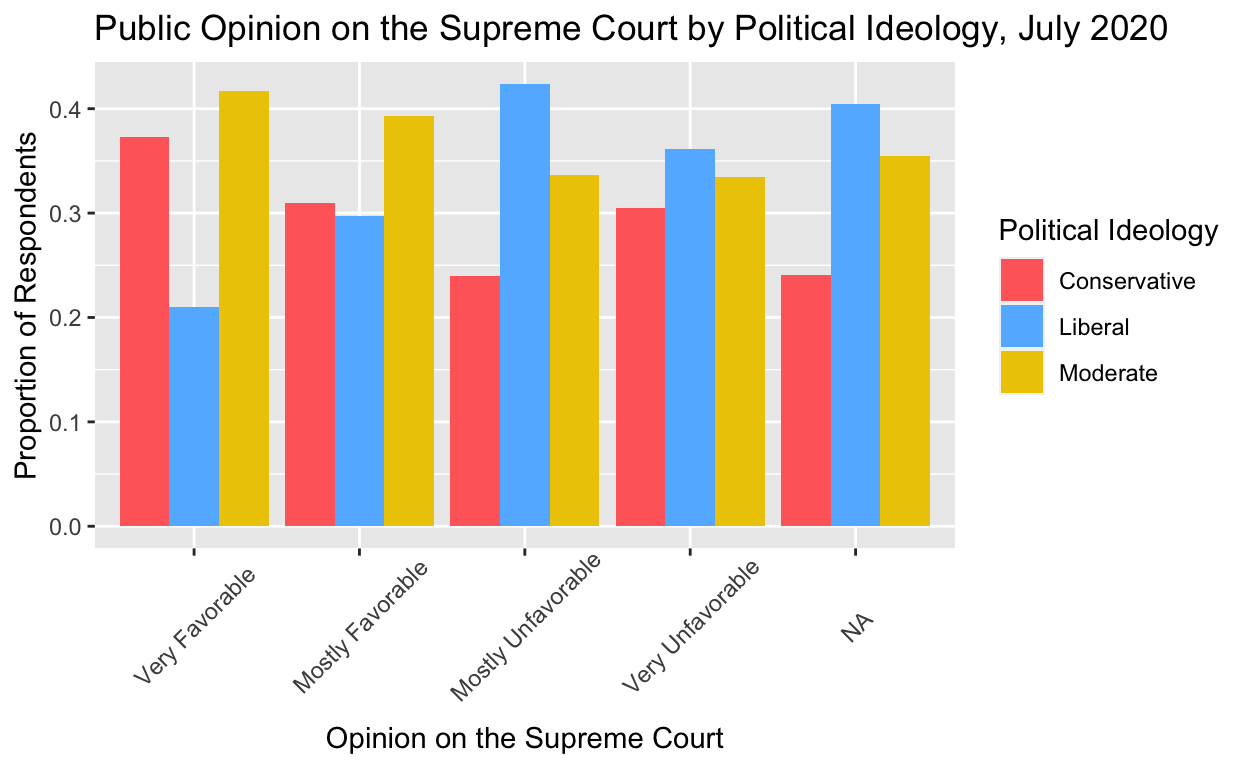
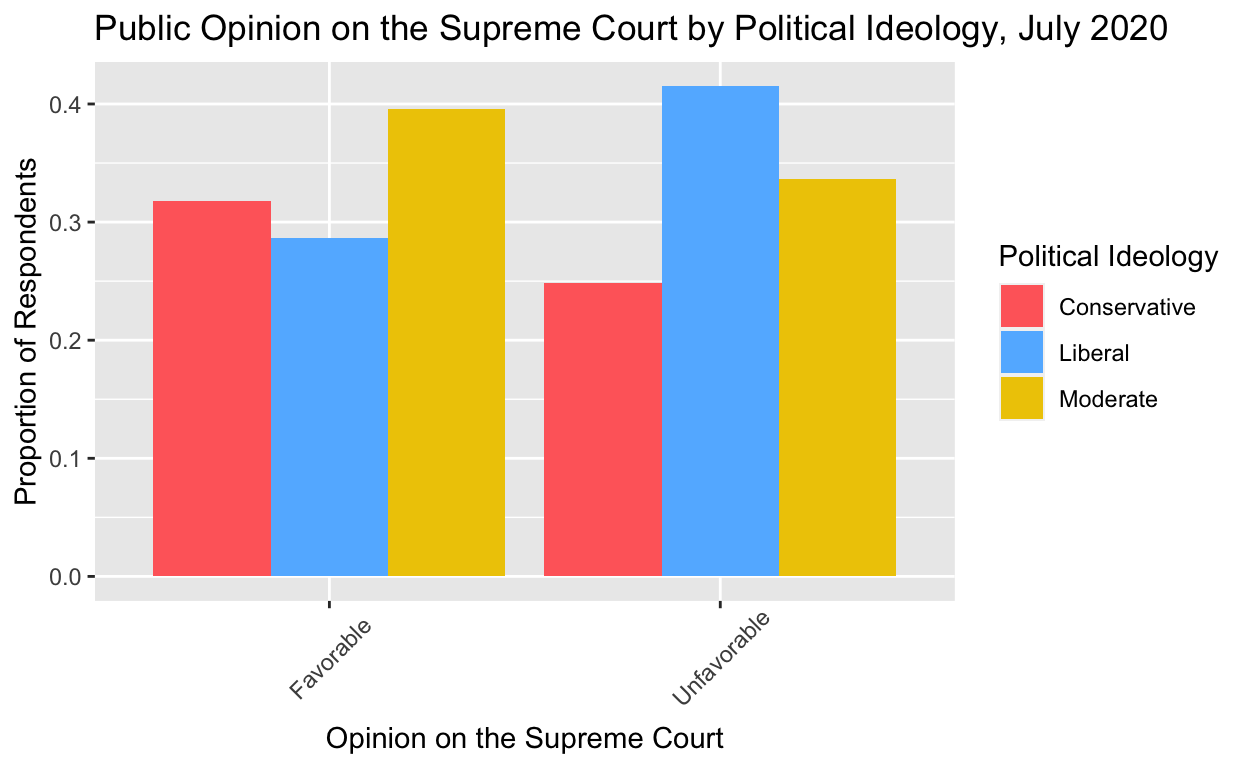
updated data visualizations

diff --git a/index.html b/index.html
@@ -115,7 +115,7 @@ code span.wa { color: #5e5e5e; font-style: italic; } /* Warning */
   <!--/radix_placeholder_rmarkdown_metadata-->
   
   <script type="text/json" id="radix-resource-manifest">
-  {"type":"character","attributes":{},"value":["index_files/anchor-4.2.2/anchor.min.js","index_files/bowser-1.9.3/bowser.min.js","index_files/distill-2.2.21/template.v2.js","index_files/figure-html5/unnamed-chunk-2-1.png","index_files/figure-html5/unnamed-chunk-3-1.png","index_files/figure-html5/unnamed-chunk-4-1.png","index_files/figure-html5/unnamed-chunk-5-1.png","index_files/figure-html5/unnamed-chunk-6-1.png","index_files/header-attrs-2.17/header-attrs.js","index_files/header-attrs-2.24/header-attrs.js","index_files/jquery-3.6.0/jquery-3.6.0.js","index_files/jquery-3.6.0/jquery-3.6.0.min.js","index_files/jquery-3.6.0/jquery-3.6.0.min.map","index_files/popper-2.6.0/popper.min.js","index_files/tippy-6.2.7/tippy-bundle.umd.min.js","index_files/tippy-6.2.7/tippy-light-border.css","index_files/tippy-6.2.7/tippy.css","index_files/tippy-6.2.7/tippy.umd.min.js","index_files/webcomponents-2.0.0/webcomponents.js","W101_Jan22/ATP W101.sav","W101_Jan22/Codebook.pdf","W101_Jan22/W101 Methodology.pdf","W101_Jan22/W101 Questionnaire.pdf","W101_Jan22/W101 Readme.txt","W101_Jan22/W101 Topline copy.pdf","W101_Jan22/W101 Topline.pdf","W52_Jul19/ATP W52 methodology.pdf","W52_Jul19/ATP W52 questionnaire.pdf","W52_Jul19/ATP W52 readme.txt","W52_Jul19/ATP W52 topline.pdf","W52_Jul19/ATP W52.sav","W59_Jan20/ATP W59 methodology.pdf","W59_Jan20/ATP W59 questionnaire.pdf","W59_Jan20/ATP W59 readme.txt","W59_Jan20/ATP W59 topline.pdf","W59_Jan20/ATP W59.sav","W71_Jul20/ATP W71 methodology.pdf","W71_Jul20/ATP W71 questionnaire.pdf","W71_Jul20/ATP W71 readme.txt","W71_Jul20/ATP W71 topline.pdf","W71_Jul20/ATP W71.sav","W87_Apr21/ATP W87 methodology.pdf","W87_Apr21/ATP W87 questionnaire.pdf","W87_Apr21/ATP W87 readme.txt","W87_Apr21/ATP W87 topline.pdf","W87_Apr21/ATP W87.sav"]}
+  {"type":"character","attributes":{},"value":["index_files/anchor-4.2.2/anchor.min.js","index_files/bowser-1.9.3/bowser.min.js","index_files/distill-2.2.21/template.v2.js","index_files/figure-html5/unnamed-chunk-2-1.png","index_files/figure-html5/unnamed-chunk-3-1.png","index_files/figure-html5/unnamed-chunk-4-1.png","index_files/figure-html5/unnamed-chunk-5-1.png","index_files/figure-html5/unnamed-chunk-6-1.png","index_files/figure-html5/unnamed-chunk-7-1.png","index_files/figure-html5/unnamed-chunk-8-1.png","index_files/header-attrs-2.17/header-attrs.js","index_files/header-attrs-2.24/header-attrs.js","index_files/jquery-3.6.0/jquery-3.6.0.js","index_files/jquery-3.6.0/jquery-3.6.0.min.js","index_files/jquery-3.6.0/jquery-3.6.0.min.map","index_files/popper-2.6.0/popper.min.js","index_files/tippy-6.2.7/tippy-bundle.umd.min.js","index_files/tippy-6.2.7/tippy-light-border.css","index_files/tippy-6.2.7/tippy.css","index_files/tippy-6.2.7/tippy.umd.min.js","index_files/webcomponents-2.0.0/webcomponents.js","W101_Jan22/ATP W101.sav","W101_Jan22/Codebook.pdf","W101_Jan22/W101 Methodology.pdf","W101_Jan22/W101 Questionnaire.pdf","W101_Jan22/W101 Readme.txt","W101_Jan22/W101 Topline copy.pdf","W101_Jan22/W101 Topline.pdf","W52_Jul19/ATP W52 methodology.pdf","W52_Jul19/ATP W52 questionnaire.pdf","W52_Jul19/ATP W52 readme.txt","W52_Jul19/ATP W52 topline.pdf","W52_Jul19/ATP W52.sav","W59_Jan20/ATP W59 methodology.pdf","W59_Jan20/ATP W59 questionnaire.pdf","W59_Jan20/ATP W59 readme.txt","W59_Jan20/ATP W59 topline.pdf","W59_Jan20/ATP W59.sav","W71_Jul20/ATP W71 methodology.pdf","W71_Jul20/ATP W71 questionnaire.pdf","W71_Jul20/ATP W71 readme.txt","W71_Jul20/ATP W71 topline.pdf","W71_Jul20/ATP W71.sav","W87_Apr21/ATP W87 methodology.pdf","W87_Apr21/ATP W87 questionnaire.pdf","W87_Apr21/ATP W87 readme.txt","W87_Apr21/ATP W87 topline.pdf","W87_Apr21/ATP W87.sav"]}
   </script>
   <!--radix_placeholder_navigation_in_header-->
   <!--/radix_placeholder_navigation_in_header-->
@@ -1518,7 +1518,7 @@ code span.wa { color: #5e5e5e; font-style: italic; } /* Warning */
 
 <div class="d-article">
 <p>Over the past decade, how has political ideology affected changes in public approval of the Supreme Court? In my final project, I plan to examine the relationship between political partisanship and public opinion of the Supreme Court. I hypothesize that individuals who identify as liberal (Democrats) are more likely to disapprove of the Court than those that identify as conservative (Republican). Overall, I expect that public approval of the Court has decreased across both parties over the past 10 years. For context, the Supreme Court is now more conservative than it has ever been in the past 90 years: with the appointment and confirmation of three conservative justices, former President Donald Trump filled more seats in a single term than any president since Franklin Delano Roosevelt. As such, a majority of Americans currently feel a disconnect from the Court as recent controversial decisions on topics such as abortion, environmental regulations, and affirmative action appear to run contrary to popular opinion. I’m planning to work with survey data from Pew Research Center’s American Trends Panel Waves 52 (July 2019), 59 (January 2020), 71 (July 2020), 87 (April 21), and 101 (January 2022). The data set has a tracking question (“Do you have a favorable or unfavorable opinion of each of the following?”) that asks respondents for their approval of the various governmental institutions, of which includes the Supreme Court—the project will focus on responses from the last five waves that asked this question (2019-2022). My explanatory variable of interest is the political ideology of the respondents: the variable can be coded =1 for liberal and =0 for conservative. My outcome variable is changes in the favorability of respondents’ opinion towards the Supreme Court (based on political ideology), which I can measure by calculating percent change or measuring linear regression. If I observe a larger percent change in unfavorable approval ratings for the Supreme Court among liberals than conservatives over 10 years, this would support my hypothesis. On the other hand, If I observe a larger percent change in unfavorable approval ratings for the Supreme Court among conservatives than liberals over 10 years, this would provide evidence against my hypothesis.</p>
-<p>For each of the data sets, I first created a data visualization of approval ratings of the Supreme Court by political ideology (using proportions).</p>
+<p>For each of the data sets, I first created a data visualization of approval ratings of the Supreme Court by political ideology (using proportions). Then, I created data visualizations to show the changes in favorable and unfavorable opinions on the Supreme Court over time.</p>
 <div class="layout-chunk" data-layout="l-body">
 <div class="sourceCode">
 <pre class="sourceCode r"><code class="sourceCode r"><span><span class='kw'><a href='https://rdrr.io/r/base/library.html'>library</a></span><span class='op'>(</span><span class='va'><a href='https://haven.tidyverse.org'>haven</a></span><span class='op'>)</span></span>
@@ -1532,16 +1532,15 @@ code span.wa { color: #5e5e5e; font-style: italic; } /* Warning */
 <pre class="sourceCode r"><code class="sourceCode r"><span><span class='va'>july19</span> <span class='op'>&lt;-</span> <span class='fu'><a href='https://haven.tidyverse.org/reference/read_spss.html'>read_sav</a></span><span class='op'>(</span><span class='st'>"W52_Jul19/ATP W52.sav"</span><span class='op'>)</span></span>
 <span></span>
 <span><span class='va'>july19</span> <span class='op'>&lt;-</span> <span class='va'>july19</span> <span class='op'>|&gt;</span></span>
-<span>  <span class='fu'><a href='https://dplyr.tidyverse.org/reference/mutate.html'>mutate</a></span><span class='op'>(</span>scotus_opinion <span class='op'>=</span> <span class='fu'><a href='https://dplyr.tidyverse.org/reference/case_when.html'>case_when</a></span><span class='op'>(</span><span class='va'>INSTFAVd_W52</span> <span class='op'>==</span> <span class='fl'>1</span> <span class='op'>~</span> <span class='st'>"Very Favorable"</span>, </span>
-<span>                                    <span class='va'>INSTFAVd_W52</span> <span class='op'>==</span> <span class='fl'>2</span> <span class='op'>~</span> <span class='st'>"Mostly Favorable"</span>, </span>
-<span>                                    <span class='va'>INSTFAVd_W52</span> <span class='op'>==</span> <span class='fl'>3</span> <span class='op'>~</span> <span class='st'>"Mostly Unfavorable"</span>,</span>
-<span>                                    <span class='va'>INSTFAVd_W52</span> <span class='op'>==</span> <span class='fl'>4</span> <span class='op'>~</span> <span class='st'>"Very Unfavorable"</span><span class='op'>)</span>,</span>
+<span>  <span class='fu'><a href='https://dplyr.tidyverse.org/reference/mutate.html'>mutate</a></span><span class='op'>(</span>scotus_opinion <span class='op'>=</span> <span class='fu'><a href='https://dplyr.tidyverse.org/reference/case_when.html'>case_when</a></span><span class='op'>(</span><span class='va'>INSTFAVd_W52</span> <span class='op'>&lt;=</span> <span class='fl'>2</span> <span class='op'>~</span> <span class='st'>"Favorable"</span>,</span>
+<span>                                    <span class='va'>INSTFAVd_W52</span> <span class='op'>&gt;=</span> <span class='fl'>3</span> <span class='op'>~</span> <span class='st'>"Unfavorable"</span><span class='op'>)</span>,</span>
 <span>         political_ideology <span class='op'>=</span> <span class='fu'><a href='https://dplyr.tidyverse.org/reference/case_when.html'>case_when</a></span><span class='op'>(</span><span class='va'>F_IDEO</span> <span class='op'>&lt;=</span> <span class='fl'>2</span> <span class='op'>~</span> <span class='st'>"Conservative"</span>, </span>
 <span>                                        <span class='va'>F_IDEO</span> <span class='op'>==</span> <span class='fl'>3</span> <span class='op'>~</span> <span class='st'>"Moderate"</span>, </span>
 <span>                                        <span class='va'>F_IDEO</span> <span class='op'>&gt;=</span> <span class='fl'>4</span> <span class='op'>~</span> <span class='st'>"Liberal"</span>, </span>
-<span>                                        <span class='va'>F_IDEO</span> <span class='op'>==</span> <span class='fl'>99</span> <span class='op'>~</span> <span class='st'>"Not Disclosed"</span><span class='op'>)</span><span class='op'>)</span></span>
+<span>                                        <span class='va'>F_IDEO</span> <span class='op'>==</span> <span class='fl'>99</span> <span class='op'>~</span> <span class='st'>"Not Disclosed"</span><span class='op'>)</span><span class='op'>)</span> <span class='op'>|&gt;</span></span>
+<span>  <span class='fu'><a href='https://dplyr.tidyverse.org/reference/filter.html'>filter</a></span><span class='op'>(</span><span class='op'>!</span><span class='fu'><a href='https://rdrr.io/r/base/NA.html'>is.na</a></span><span class='op'>(</span><span class='va'>scotus_opinion</span><span class='op'>)</span><span class='op'>)</span></span>
 <span></span>
-<span><span class='va'>july19</span><span class='op'>$</span><span class='va'>scotus_opinion</span> <span class='op'>&lt;-</span> <span class='fu'><a href='https://rdrr.io/r/base/factor.html'>factor</a></span><span class='op'>(</span><span class='va'>july19</span><span class='op'>$</span><span class='va'>scotus_opinion</span>, levels<span class='op'>=</span><span class='fu'><a href='https://rdrr.io/r/base/c.html'>c</a></span><span class='op'>(</span><span class='st'>"Very Favorable"</span>, <span class='st'>"Mostly Favorable"</span>, <span class='st'>"Mostly Unfavorable"</span>, <span class='st'>"Very Unfavorable"</span><span class='op'>)</span><span class='op'>)</span></span>
+<span><span class='va'>july19</span><span class='op'>$</span><span class='va'>scotus_opinion</span> <span class='op'>&lt;-</span> <span class='fu'><a href='https://rdrr.io/r/base/factor.html'>factor</a></span><span class='op'>(</span><span class='va'>july19</span><span class='op'>$</span><span class='va'>scotus_opinion</span>, levels<span class='op'>=</span><span class='fu'><a href='https://rdrr.io/r/base/c.html'>c</a></span><span class='op'>(</span><span class='st'>"Favorable"</span>, <span class='st'>"Unfavorable"</span><span class='op'>)</span><span class='op'>)</span></span>
 <span></span>
 <span><span class='va'>july19_prop</span> <span class='op'>&lt;-</span> <span class='va'>july19</span> <span class='op'>|&gt;</span></span>
 <span>  <span class='fu'><a href='https://dplyr.tidyverse.org/reference/group_by.html'>group_by</a></span><span class='op'>(</span><span class='va'>scotus_opinion</span>, <span class='va'>political_ideology</span><span class='op'>)</span> <span class='op'>|&gt;</span></span>
@@ -1567,16 +1566,15 @@ code span.wa { color: #5e5e5e; font-style: italic; } /* Warning */
 <pre class="sourceCode r"><code class="sourceCode r"><span><span class='va'>jan20</span> <span class='op'>&lt;-</span> <span class='fu'><a href='https://haven.tidyverse.org/reference/read_spss.html'>read_sav</a></span><span class='op'>(</span><span class='st'>"W59_Jan20/ATP W59.sav"</span><span class='op'>)</span></span>
 <span></span>
 <span><span class='va'>jan20</span> <span class='op'>&lt;-</span> <span class='va'>jan20</span> <span class='op'>|&gt;</span></span>
-<span>  <span class='fu'><a href='https://dplyr.tidyverse.org/reference/mutate.html'>mutate</a></span><span class='op'>(</span>scotus_opinion <span class='op'>=</span> <span class='fu'><a href='https://dplyr.tidyverse.org/reference/case_when.html'>case_when</a></span><span class='op'>(</span><span class='va'>INSTFAV_d_W59</span> <span class='op'>==</span> <span class='fl'>1</span> <span class='op'>~</span> <span class='st'>"Very Favorable"</span>, </span>
-<span>                                    <span class='va'>INSTFAV_d_W59</span> <span class='op'>==</span> <span class='fl'>2</span> <span class='op'>~</span> <span class='st'>"Mostly Favorable"</span>, </span>
-<span>                                    <span class='va'>INSTFAV_d_W59</span> <span class='op'>==</span> <span class='fl'>3</span> <span class='op'>~</span> <span class='st'>"Mostly Unfavorable"</span>,</span>
-<span>                                    <span class='va'>INSTFAV_d_W59</span> <span class='op'>==</span> <span class='fl'>4</span> <span class='op'>~</span> <span class='st'>"Very Unfavorable"</span><span class='op'>)</span>,</span>
+<span>  <span class='fu'><a href='https://dplyr.tidyverse.org/reference/mutate.html'>mutate</a></span><span class='op'>(</span>scotus_opinion <span class='op'>=</span> <span class='fu'><a href='https://dplyr.tidyverse.org/reference/case_when.html'>case_when</a></span><span class='op'>(</span><span class='va'>INSTFAV_d_W59</span> <span class='op'>&lt;=</span> <span class='fl'>2</span> <span class='op'>~</span> <span class='st'>"Favorable"</span>, </span>
+<span>                                    <span class='va'>INSTFAV_d_W59</span>  <span class='op'>&gt;=</span> <span class='fl'>3</span> <span class='op'>~</span> <span class='st'>"Unfavorable"</span><span class='op'>)</span>,</span>
 <span>         political_ideology <span class='op'>=</span> <span class='fu'><a href='https://dplyr.tidyverse.org/reference/case_when.html'>case_when</a></span><span class='op'>(</span><span class='va'>F_IDEO</span> <span class='op'>&lt;=</span> <span class='fl'>2</span> <span class='op'>~</span> <span class='st'>"Conservative"</span>, </span>
 <span>                                        <span class='va'>F_IDEO</span> <span class='op'>==</span> <span class='fl'>3</span> <span class='op'>~</span> <span class='st'>"Moderate"</span>, </span>
 <span>                                        <span class='va'>F_IDEO</span> <span class='op'>&gt;=</span> <span class='fl'>4</span> <span class='op'>~</span> <span class='st'>"Liberal"</span>, </span>
-<span>                                        <span class='va'>F_IDEO</span> <span class='op'>==</span> <span class='fl'>99</span> <span class='op'>~</span> <span class='st'>"Not Disclosed"</span><span class='op'>)</span><span class='op'>)</span></span>
+<span>                                        <span class='va'>F_IDEO</span> <span class='op'>==</span> <span class='fl'>99</span> <span class='op'>~</span> <span class='st'>"Not Disclosed"</span><span class='op'>)</span><span class='op'>)</span> <span class='op'>|&gt;</span></span>
+<span>  <span class='fu'><a href='https://dplyr.tidyverse.org/reference/filter.html'>filter</a></span><span class='op'>(</span><span class='op'>!</span><span class='fu'><a href='https://rdrr.io/r/base/NA.html'>is.na</a></span><span class='op'>(</span><span class='va'>scotus_opinion</span><span class='op'>)</span><span class='op'>)</span></span>
 <span></span>
-<span><span class='va'>jan20</span><span class='op'>$</span><span class='va'>scotus_opinion</span> <span class='op'>&lt;-</span> <span class='fu'><a href='https://rdrr.io/r/base/factor.html'>factor</a></span><span class='op'>(</span><span class='va'>jan20</span><span class='op'>$</span><span class='va'>scotus_opinion</span>, levels<span class='op'>=</span><span class='fu'><a href='https://rdrr.io/r/base/c.html'>c</a></span><span class='op'>(</span><span class='st'>"Very Favorable"</span>, <span class='st'>"Mostly Favorable"</span>, <span class='st'>"Mostly Unfavorable"</span>, <span class='st'>"Very Unfavorable"</span><span class='op'>)</span><span class='op'>)</span></span>
+<span><span class='va'>jan20</span><span class='op'>$</span><span class='va'>scotus_opinion</span> <span class='op'>&lt;-</span> <span class='fu'><a href='https://rdrr.io/r/base/factor.html'>factor</a></span><span class='op'>(</span><span class='va'>jan20</span><span class='op'>$</span><span class='va'>scotus_opinion</span>, levels<span class='op'>=</span><span class='fu'><a href='https://rdrr.io/r/base/c.html'>c</a></span><span class='op'>(</span><span class='st'>"Favorable"</span>, <span class='st'>"Unfavorable"</span><span class='op'>)</span><span class='op'>)</span></span>
 <span></span>
 <span><span class='va'>jan20_prop</span> <span class='op'>&lt;-</span> <span class='va'>jan20</span> <span class='op'>|&gt;</span></span>
 <span>  <span class='fu'><a href='https://dplyr.tidyverse.org/reference/group_by.html'>group_by</a></span><span class='op'>(</span><span class='va'>scotus_opinion</span>, <span class='va'>political_ideology</span><span class='op'>)</span> <span class='op'>|&gt;</span></span>
@@ -1602,16 +1600,15 @@ code span.wa { color: #5e5e5e; font-style: italic; } /* Warning */
 <pre class="sourceCode r"><code class="sourceCode r"><span><span class='va'>july20</span> <span class='op'>&lt;-</span> <span class='fu'><a href='https://haven.tidyverse.org/reference/read_spss.html'>read_sav</a></span><span class='op'>(</span><span class='st'>"W71_Jul20/ATP W71.sav"</span><span class='op'>)</span></span>
 <span></span>
 <span><span class='va'>july20</span> <span class='op'>&lt;-</span> <span class='va'>july20</span> <span class='op'>|&gt;</span></span>
-<span>  <span class='fu'><a href='https://dplyr.tidyverse.org/reference/mutate.html'>mutate</a></span><span class='op'>(</span>scotus_opinion <span class='op'>=</span> <span class='fu'><a href='https://dplyr.tidyverse.org/reference/case_when.html'>case_when</a></span><span class='op'>(</span><span class='va'>INSTFAV_d_W71</span> <span class='op'>==</span> <span class='fl'>1</span> <span class='op'>~</span> <span class='st'>"Very Favorable"</span>, </span>
-<span>                                    <span class='va'>INSTFAV_d_W71</span> <span class='op'>==</span> <span class='fl'>2</span> <span class='op'>~</span> <span class='st'>"Mostly Favorable"</span>, </span>
-<span>                                    <span class='va'>INSTFAV_d_W71</span> <span class='op'>==</span> <span class='fl'>3</span> <span class='op'>~</span> <span class='st'>"Mostly Unfavorable"</span>,</span>
-<span>                                    <span class='va'>INSTFAV_d_W71</span> <span class='op'>==</span> <span class='fl'>4</span> <span class='op'>~</span> <span class='st'>"Very Unfavorable"</span><span class='op'>)</span>,</span>
+<span>  <span class='fu'><a href='https://dplyr.tidyverse.org/reference/mutate.html'>mutate</a></span><span class='op'>(</span>scotus_opinion <span class='op'>=</span> <span class='fu'><a href='https://dplyr.tidyverse.org/reference/case_when.html'>case_when</a></span><span class='op'>(</span><span class='va'>INSTFAV_d_W71</span> <span class='op'>&lt;=</span> <span class='fl'>2</span> <span class='op'>~</span> <span class='st'>"Favorable"</span>, </span>
+<span>                                    <span class='va'>INSTFAV_d_W71</span>  <span class='op'>&gt;=</span> <span class='fl'>3</span> <span class='op'>~</span> <span class='st'>"Unfavorable"</span><span class='op'>)</span>,</span>
 <span>         political_ideology <span class='op'>=</span> <span class='fu'><a href='https://dplyr.tidyverse.org/reference/case_when.html'>case_when</a></span><span class='op'>(</span><span class='va'>F_IDEO</span> <span class='op'>&lt;=</span> <span class='fl'>2</span> <span class='op'>~</span> <span class='st'>"Conservative"</span>, </span>
 <span>                                        <span class='va'>F_IDEO</span> <span class='op'>==</span> <span class='fl'>3</span> <span class='op'>~</span> <span class='st'>"Moderate"</span>, </span>
 <span>                                        <span class='va'>F_IDEO</span> <span class='op'>&gt;=</span> <span class='fl'>4</span> <span class='op'>~</span> <span class='st'>"Liberal"</span>, </span>
-<span>                                        <span class='va'>F_IDEO</span> <span class='op'>==</span> <span class='fl'>99</span> <span class='op'>~</span> <span class='st'>"Not Disclosed"</span><span class='op'>)</span><span class='op'>)</span></span>
+<span>                                        <span class='va'>F_IDEO</span> <span class='op'>==</span> <span class='fl'>99</span> <span class='op'>~</span> <span class='st'>"Not Disclosed"</span><span class='op'>)</span><span class='op'>)</span> <span class='op'>|&gt;</span></span>
+<span>  <span class='fu'><a href='https://dplyr.tidyverse.org/reference/filter.html'>filter</a></span><span class='op'>(</span><span class='op'>!</span><span class='fu'><a href='https://rdrr.io/r/base/NA.html'>is.na</a></span><span class='op'>(</span><span class='va'>scotus_opinion</span><span class='op'>)</span><span class='op'>)</span></span>
 <span></span>
-<span><span class='va'>july20</span><span class='op'>$</span><span class='va'>scotus_opinion</span> <span class='op'>&lt;-</span> <span class='fu'><a href='https://rdrr.io/r/base/factor.html'>factor</a></span><span class='op'>(</span><span class='va'>july20</span><span class='op'>$</span><span class='va'>scotus_opinion</span>, levels<span class='op'>=</span><span class='fu'><a href='https://rdrr.io/r/base/c.html'>c</a></span><span class='op'>(</span><span class='st'>"Very Favorable"</span>, <span class='st'>"Mostly Favorable"</span>, <span class='st'>"Mostly Unfavorable"</span>, <span class='st'>"Very Unfavorable"</span><span class='op'>)</span><span class='op'>)</span></span>
+<span><span class='va'>july20</span><span class='op'>$</span><span class='va'>scotus_opinion</span> <span class='op'>&lt;-</span> <span class='fu'><a href='https://rdrr.io/r/base/factor.html'>factor</a></span><span class='op'>(</span><span class='va'>july20</span><span class='op'>$</span><span class='va'>scotus_opinion</span>, levels<span class='op'>=</span><span class='fu'><a href='https://rdrr.io/r/base/c.html'>c</a></span><span class='op'>(</span><span class='st'>"Favorable"</span>, <span class='st'>"Unfavorable"</span><span class='op'>)</span><span class='op'>)</span></span>
 <span></span>
 <span><span class='va'>july20_prop</span> <span class='op'>&lt;-</span> <span class='va'>july20</span> <span class='op'>|&gt;</span></span>
 <span>  <span class='fu'><a href='https://dplyr.tidyverse.org/reference/group_by.html'>group_by</a></span><span class='op'>(</span><span class='va'>scotus_opinion</span>, <span class='va'>political_ideology</span><span class='op'>)</span> <span class='op'>|&gt;</span></span>
@@ -1637,16 +1634,15 @@ code span.wa { color: #5e5e5e; font-style: italic; } /* Warning */
 <pre class="sourceCode r"><code class="sourceCode r"><span><span class='va'>april21</span> <span class='op'>&lt;-</span> <span class='fu'><a href='https://haven.tidyverse.org/reference/read_spss.html'>read_sav</a></span><span class='op'>(</span><span class='st'>"W87_Apr21/ATP W87.sav"</span><span class='op'>)</span></span>
 <span></span>
 <span><span class='va'>april21</span> <span class='op'>&lt;-</span> <span class='va'>april21</span> <span class='op'>|&gt;</span></span>
-<span>  <span class='fu'><a href='https://dplyr.tidyverse.org/reference/mutate.html'>mutate</a></span><span class='op'>(</span>scotus_opinion <span class='op'>=</span> <span class='fu'><a href='https://dplyr.tidyverse.org/reference/case_when.html'>case_when</a></span><span class='op'>(</span><span class='va'>INSTFAV_d_W87</span> <span class='op'>==</span> <span class='fl'>1</span> <span class='op'>~</span> <span class='st'>"Very Favorable"</span>, </span>
-<span>                                    <span class='va'>INSTFAV_d_W87</span> <span class='op'>==</span> <span class='fl'>2</span> <span class='op'>~</span> <span class='st'>"Mostly Favorable"</span>, </span>
-<span>                                    <span class='va'>INSTFAV_d_W87</span> <span class='op'>==</span> <span class='fl'>3</span> <span class='op'>~</span> <span class='st'>"Mostly Unfavorable"</span>,</span>
-<span>                                    <span class='va'>INSTFAV_d_W87</span> <span class='op'>==</span> <span class='fl'>4</span> <span class='op'>~</span> <span class='st'>"Very Unfavorable"</span><span class='op'>)</span>,</span>
+<span>  <span class='fu'><a href='https://dplyr.tidyverse.org/reference/mutate.html'>mutate</a></span><span class='op'>(</span>scotus_opinion <span class='op'>=</span> <span class='fu'><a href='https://dplyr.tidyverse.org/reference/case_when.html'>case_when</a></span><span class='op'>(</span><span class='va'>INSTFAV_d_W87</span> <span class='op'>&lt;=</span> <span class='fl'>2</span> <span class='op'>~</span> <span class='st'>"Favorable"</span>, </span>
+<span>                                    <span class='va'>INSTFAV_d_W87</span> <span class='op'>&gt;=</span> <span class='fl'>3</span> <span class='op'>~</span> <span class='st'>"Unfavorable"</span><span class='op'>)</span>,</span>
 <span>         political_ideology <span class='op'>=</span> <span class='fu'><a href='https://dplyr.tidyverse.org/reference/case_when.html'>case_when</a></span><span class='op'>(</span><span class='va'>F_IDEO</span> <span class='op'>&lt;=</span> <span class='fl'>2</span> <span class='op'>~</span> <span class='st'>"Conservative"</span>, </span>
 <span>                                        <span class='va'>F_IDEO</span> <span class='op'>==</span> <span class='fl'>3</span> <span class='op'>~</span> <span class='st'>"Moderate"</span>, </span>
 <span>                                        <span class='va'>F_IDEO</span> <span class='op'>&gt;=</span> <span class='fl'>4</span> <span class='op'>~</span> <span class='st'>"Liberal"</span>, </span>
-<span>                                        <span class='va'>F_IDEO</span> <span class='op'>==</span> <span class='fl'>99</span> <span class='op'>~</span> <span class='st'>"Not Disclosed"</span><span class='op'>)</span><span class='op'>)</span></span>
+<span>                                        <span class='va'>F_IDEO</span> <span class='op'>==</span> <span class='fl'>99</span> <span class='op'>~</span> <span class='st'>"Not Disclosed"</span><span class='op'>)</span><span class='op'>)</span> <span class='op'>|&gt;</span></span>
+<span>  <span class='fu'><a href='https://dplyr.tidyverse.org/reference/filter.html'>filter</a></span><span class='op'>(</span><span class='op'>!</span><span class='fu'><a href='https://rdrr.io/r/base/NA.html'>is.na</a></span><span class='op'>(</span><span class='va'>scotus_opinion</span><span class='op'>)</span><span class='op'>)</span></span>
 <span></span>
-<span><span class='va'>april21</span><span class='op'>$</span><span class='va'>scotus_opinion</span> <span class='op'>&lt;-</span> <span class='fu'><a href='https://rdrr.io/r/base/factor.html'>factor</a></span><span class='op'>(</span><span class='va'>april21</span><span class='op'>$</span><span class='va'>scotus_opinion</span>, levels<span class='op'>=</span><span class='fu'><a href='https://rdrr.io/r/base/c.html'>c</a></span><span class='op'>(</span><span class='st'>"Very Favorable"</span>, <span class='st'>"Mostly Favorable"</span>, <span class='st'>"Mostly Unfavorable"</span>, <span class='st'>"Very Unfavorable"</span><span class='op'>)</span><span class='op'>)</span></span>
+<span><span class='va'>april21</span><span class='op'>$</span><span class='va'>scotus_opinion</span> <span class='op'>&lt;-</span> <span class='fu'><a href='https://rdrr.io/r/base/factor.html'>factor</a></span><span class='op'>(</span><span class='va'>april21</span><span class='op'>$</span><span class='va'>scotus_opinion</span>, levels<span class='op'>=</span><span class='fu'><a href='https://rdrr.io/r/base/c.html'>c</a></span><span class='op'>(</span><span class='st'>"Favorable"</span>, <span class='st'>"Unfavorable"</span><span class='op'>)</span><span class='op'>)</span></span>
 <span></span>
 <span><span class='va'>april21_prop</span> <span class='op'>&lt;-</span> <span class='va'>april21</span> <span class='op'>|&gt;</span></span>
 <span>  <span class='fu'><a href='https://dplyr.tidyverse.org/reference/group_by.html'>group_by</a></span><span class='op'>(</span><span class='va'>scotus_opinion</span>, <span class='va'>political_ideology</span><span class='op'>)</span> <span class='op'>|&gt;</span></span>
@@ -1672,16 +1668,15 @@ code span.wa { color: #5e5e5e; font-style: italic; } /* Warning */
 <pre class="sourceCode r"><code class="sourceCode r"><span><span class='va'>jan22</span> <span class='op'>&lt;-</span> <span class='fu'><a href='https://haven.tidyverse.org/reference/read_spss.html'>read_sav</a></span><span class='op'>(</span><span class='st'>"W101_Jan22/ATP W101.sav"</span><span class='op'>)</span></span>
 <span></span>
 <span><span class='va'>jan22</span> <span class='op'>&lt;-</span> <span class='va'>jan22</span> <span class='op'>|&gt;</span></span>
-<span>  <span class='fu'><a href='https://dplyr.tidyverse.org/reference/mutate.html'>mutate</a></span><span class='op'>(</span>scotus_opinion <span class='op'>=</span> <span class='fu'><a href='https://dplyr.tidyverse.org/reference/case_when.html'>case_when</a></span><span class='op'>(</span><span class='va'>INSTFAV_d_W101</span> <span class='op'>==</span> <span class='fl'>1</span> <span class='op'>~</span> <span class='st'>"Very Favorable"</span>, </span>
-<span>                                    <span class='va'>INSTFAV_d_W101</span> <span class='op'>==</span> <span class='fl'>2</span> <span class='op'>~</span> <span class='st'>"Mostly Favorable"</span>, </span>
-<span>                                    <span class='va'>INSTFAV_d_W101</span> <span class='op'>==</span> <span class='fl'>3</span> <span class='op'>~</span> <span class='st'>"Mostly Unfavorable"</span>,</span>
-<span>                                    <span class='va'>INSTFAV_d_W101</span> <span class='op'>==</span> <span class='fl'>4</span> <span class='op'>~</span> <span class='st'>"Very Unfavorable"</span><span class='op'>)</span>,</span>
+<span>  <span class='fu'><a href='https://dplyr.tidyverse.org/reference/mutate.html'>mutate</a></span><span class='op'>(</span>scotus_opinion <span class='op'>=</span> <span class='fu'><a href='https://dplyr.tidyverse.org/reference/case_when.html'>case_when</a></span><span class='op'>(</span><span class='va'>INSTFAV_d_W101</span> <span class='op'>&lt;=</span> <span class='fl'>2</span> <span class='op'>~</span> <span class='st'>"Favorable"</span>, </span>
+<span>                                    <span class='va'>INSTFAV_d_W101</span> <span class='op'>&gt;=</span> <span class='fl'>3</span> <span class='op'>~</span> <span class='st'>"Unfavorable"</span><span class='op'>)</span>,</span>
 <span>         political_ideology <span class='op'>=</span> <span class='fu'><a href='https://dplyr.tidyverse.org/reference/case_when.html'>case_when</a></span><span class='op'>(</span><span class='va'>F_IDEO</span> <span class='op'>&lt;=</span> <span class='fl'>2</span> <span class='op'>~</span> <span class='st'>"Conservative"</span>, </span>
 <span>                                        <span class='va'>F_IDEO</span> <span class='op'>==</span> <span class='fl'>3</span> <span class='op'>~</span> <span class='st'>"Moderate"</span>, </span>
 <span>                                        <span class='va'>F_IDEO</span> <span class='op'>&gt;=</span> <span class='fl'>4</span> <span class='op'>~</span> <span class='st'>"Liberal"</span>, </span>
-<span>                                        <span class='va'>F_IDEO</span> <span class='op'>==</span> <span class='fl'>99</span> <span class='op'>~</span> <span class='st'>"Not Disclosed"</span><span class='op'>)</span><span class='op'>)</span></span>
+<span>                                        <span class='va'>F_IDEO</span> <span class='op'>==</span> <span class='fl'>99</span> <span class='op'>~</span> <span class='st'>"Not Disclosed"</span><span class='op'>)</span><span class='op'>)</span> <span class='op'>|&gt;</span></span>
+<span>  <span class='fu'><a href='https://dplyr.tidyverse.org/reference/filter.html'>filter</a></span><span class='op'>(</span><span class='op'>!</span><span class='fu'><a href='https://rdrr.io/r/base/NA.html'>is.na</a></span><span class='op'>(</span><span class='va'>scotus_opinion</span><span class='op'>)</span><span class='op'>)</span></span>
 <span></span>
-<span><span class='va'>jan22</span><span class='op'>$</span><span class='va'>scotus_opinion</span> <span class='op'>&lt;-</span> <span class='fu'><a href='https://rdrr.io/r/base/factor.html'>factor</a></span><span class='op'>(</span><span class='va'>jan22</span><span class='op'>$</span><span class='va'>scotus_opinion</span>, levels<span class='op'>=</span><span class='fu'><a href='https://rdrr.io/r/base/c.html'>c</a></span><span class='op'>(</span><span class='st'>"Very Favorable"</span>, <span class='st'>"Mostly Favorable"</span>, <span class='st'>"Mostly Unfavorable"</span>, <span class='st'>"Very Unfavorable"</span><span class='op'>)</span><span class='op'>)</span></span>
+<span><span class='va'>jan22</span><span class='op'>$</span><span class='va'>scotus_opinion</span> <span class='op'>&lt;-</span> <span class='fu'><a href='https://rdrr.io/r/base/factor.html'>factor</a></span><span class='op'>(</span><span class='va'>jan22</span><span class='op'>$</span><span class='va'>scotus_opinion</span>, levels<span class='op'>=</span><span class='fu'><a href='https://rdrr.io/r/base/c.html'>c</a></span><span class='op'>(</span><span class='st'>"Favorable"</span>, <span class='st'>"Unfavorable"</span><span class='op'>)</span><span class='op'>)</span></span>
 <span></span>
 <span><span class='va'>jan22_prop</span> <span class='op'>&lt;-</span> <span class='va'>jan22</span> <span class='op'>|&gt;</span></span>
 <span>  <span class='fu'><a href='https://dplyr.tidyverse.org/reference/group_by.html'>group_by</a></span><span class='op'>(</span><span class='va'>scotus_opinion</span>, <span class='va'>political_ideology</span><span class='op'>)</span> <span class='op'>|&gt;</span></span>
@@ -1701,6 +1696,48 @@ code span.wa { color: #5e5e5e; font-style: italic; } /* Warning */
 <span>  <span class='fu'><a href='https://ggplot2.tidyverse.org/reference/theme.html'>theme</a></span><span class='op'>(</span>axis.text.x <span class='op'>=</span> <span class='fu'><a href='https://ggplot2.tidyverse.org/reference/element.html'>element_text</a></span><span class='op'>(</span>vjust<span class='op'>=</span><span class='fl'>0.6</span>, angle <span class='op'>=</span> <span class='fl'>45</span><span class='op'>)</span><span class='op'>)</span></span></code></pre>
 </div>
 <p><img src="index_files/figure-html5/unnamed-chunk-6-1.png" width="624" /></p>
+</div>
+<div class="layout-chunk" data-layout="l-body">
+<div class="sourceCode">
+<pre class="sourceCode r"><code class="sourceCode r"><span><span class='va'>d1</span> <span class='op'>&lt;-</span> <span class='fu'><a href='https://rdrr.io/r/base/cbind.html'>rbind.data.frame</a></span><span class='op'>(</span><span class='va'>july19_prop</span>, <span class='va'>jan20_prop</span>, <span class='va'>july20_prop</span>, <span class='va'>april21_prop</span>, <span class='va'>jan22_prop</span><span class='op'>)</span></span>
+<span><span class='va'>d1</span><span class='op'>$</span><span class='va'>date</span> <span class='op'>=</span> <span class='fu'><a href='https://rdrr.io/r/base/c.html'>c</a></span><span class='op'>(</span><span class='fu'><a href='https://rdrr.io/r/base/rep.html'>rep</a></span><span class='op'>(</span><span class='st'>"July19"</span>, <span class='fl'>6</span><span class='op'>)</span>, <span class='fu'><a href='https://rdrr.io/r/base/rep.html'>rep</a></span><span class='op'>(</span><span class='st'>"Jan20"</span>, <span class='fl'>6</span><span class='op'>)</span>, <span class='fu'><a href='https://rdrr.io/r/base/rep.html'>rep</a></span><span class='op'>(</span><span class='st'>"July20"</span>, <span class='fl'>6</span><span class='op'>)</span>, <span class='fu'><a href='https://rdrr.io/r/base/rep.html'>rep</a></span><span class='op'>(</span><span class='st'>"April21"</span>, <span class='fl'>6</span><span class='op'>)</span>, <span class='fu'><a href='https://rdrr.io/r/base/rep.html'>rep</a></span><span class='op'>(</span><span class='st'>"Jan22"</span>, <span class='fl'>6</span><span class='op'>)</span><span class='op'>)</span></span>
+<span></span>
+<span><span class='va'>d1</span> <span class='op'>&lt;-</span> <span class='va'>d1</span><span class='op'>[</span><span class='va'>d1</span><span class='op'>$</span><span class='va'>scotus_opinion</span> <span class='op'>==</span> <span class='st'>"Favorable"</span>, <span class='op'>]</span></span>
+<span></span>
+<span><span class='va'>d1</span><span class='op'>$</span><span class='va'>date</span> <span class='op'>&lt;-</span> <span class='fu'><a href='https://rdrr.io/r/base/factor.html'>ordered</a></span><span class='op'>(</span><span class='va'>d1</span><span class='op'>$</span><span class='va'>date</span>, levels <span class='op'>=</span> <span class='fu'><a href='https://rdrr.io/r/base/c.html'>c</a></span><span class='op'>(</span><span class='st'>"July19"</span>, <span class='st'>"Jan20"</span>, <span class='st'>"July20"</span>, <span class='st'>"April21"</span>, <span class='st'>"Jan22"</span><span class='op'>)</span><span class='op'>)</span></span>
+<span></span>
+<span><span class='va'>d1</span> <span class='op'>|&gt;</span></span>
+<span>  <span class='fu'><a href='https://ggplot2.tidyverse.org/reference/ggplot.html'>ggplot</a></span><span class='op'>(</span>mapping <span class='op'>=</span> <span class='fu'><a href='https://ggplot2.tidyverse.org/reference/aes.html'>aes</a></span><span class='op'>(</span>x <span class='op'>=</span> <span class='fu'><a href='https://rdrr.io/r/base/factor.html'>factor</a></span><span class='op'>(</span><span class='va'>date</span><span class='op'>)</span>, y <span class='op'>=</span> <span class='va'>prop</span>, group <span class='op'>=</span> <span class='va'>political_ideology</span>, color <span class='op'>=</span> <span class='va'>political_ideology</span><span class='op'>)</span><span class='op'>)</span> <span class='op'>+</span> </span>
+<span>  <span class='fu'><a href='https://ggplot2.tidyverse.org/reference/geom_path.html'>geom_line</a></span><span class='op'>(</span><span class='op'>)</span> <span class='op'>+</span></span>
+<span>  <span class='fu'><a href='https://ggplot2.tidyverse.org/reference/geom_point.html'>geom_point</a></span><span class='op'>(</span><span class='op'>)</span> <span class='op'>+</span></span>
+<span>  <span class='fu'><a href='https://ggplot2.tidyverse.org/reference/scale_manual.html'>scale_color_manual</a></span><span class='op'>(</span>name <span class='op'>=</span> <span class='st'>"Political Ideology"</span>, values <span class='op'>=</span> <span class='fu'><a href='https://rdrr.io/r/base/c.html'>c</a></span><span class='op'>(</span>Liberal <span class='op'>=</span> <span class='st'>"steelblue1"</span>, Conservative <span class='op'>=</span> <span class='st'>"indianred1"</span>, Moderate <span class='op'>=</span> <span class='st'>"gold2"</span><span class='op'>)</span><span class='op'>)</span> <span class='op'>+</span></span>
+<span>  <span class='fu'><a href='https://ggplot2.tidyverse.org/reference/labs.html'>labs</a></span><span class='op'>(</span></span>
+<span>    title <span class='op'>=</span> <span class='st'>"Favorable Public Opinion on the Supreme Court by Political Ideology"</span>, </span>
+<span>    x <span class='op'>=</span> <span class='st'>"Date (Month &amp; Year)"</span>, </span>
+<span>    y <span class='op'>=</span> <span class='st'>"Proportion of Respondents"</span><span class='op'>)</span></span></code></pre>
+</div>
+<p><img src="index_files/figure-html5/unnamed-chunk-7-1.png" width="624" /></p>
+</div>
+<div class="layout-chunk" data-layout="l-body">
+<div class="sourceCode">
+<pre class="sourceCode r"><code class="sourceCode r"><span><span class='va'>d1</span> <span class='op'>&lt;-</span> <span class='fu'><a href='https://rdrr.io/r/base/cbind.html'>rbind.data.frame</a></span><span class='op'>(</span><span class='va'>july19_prop</span>, <span class='va'>jan20_prop</span>, <span class='va'>july20_prop</span>, <span class='va'>april21_prop</span>, <span class='va'>jan22_prop</span><span class='op'>)</span></span>
+<span><span class='va'>d1</span><span class='op'>$</span><span class='va'>date</span> <span class='op'>=</span> <span class='fu'><a href='https://rdrr.io/r/base/c.html'>c</a></span><span class='op'>(</span><span class='fu'><a href='https://rdrr.io/r/base/rep.html'>rep</a></span><span class='op'>(</span><span class='st'>"July19"</span>, <span class='fl'>6</span><span class='op'>)</span>, <span class='fu'><a href='https://rdrr.io/r/base/rep.html'>rep</a></span><span class='op'>(</span><span class='st'>"Jan20"</span>, <span class='fl'>6</span><span class='op'>)</span>, <span class='fu'><a href='https://rdrr.io/r/base/rep.html'>rep</a></span><span class='op'>(</span><span class='st'>"July20"</span>, <span class='fl'>6</span><span class='op'>)</span>, <span class='fu'><a href='https://rdrr.io/r/base/rep.html'>rep</a></span><span class='op'>(</span><span class='st'>"April21"</span>, <span class='fl'>6</span><span class='op'>)</span>, <span class='fu'><a href='https://rdrr.io/r/base/rep.html'>rep</a></span><span class='op'>(</span><span class='st'>"Jan22"</span>, <span class='fl'>6</span><span class='op'>)</span><span class='op'>)</span></span>
+<span></span>
+<span><span class='va'>d2</span> <span class='op'>&lt;-</span> <span class='va'>d1</span><span class='op'>[</span><span class='va'>d1</span><span class='op'>$</span><span class='va'>scotus_opinion</span> <span class='op'>==</span> <span class='st'>"Unfavorable"</span>, <span class='op'>]</span></span>
+<span></span>
+<span><span class='va'>d2</span><span class='op'>$</span><span class='va'>date</span> <span class='op'>&lt;-</span> <span class='fu'><a href='https://rdrr.io/r/base/factor.html'>ordered</a></span><span class='op'>(</span><span class='va'>d2</span><span class='op'>$</span><span class='va'>date</span>, levels <span class='op'>=</span> <span class='fu'><a href='https://rdrr.io/r/base/c.html'>c</a></span><span class='op'>(</span><span class='st'>"July19"</span>, <span class='st'>"Jan20"</span>, <span class='st'>"July20"</span>, <span class='st'>"April21"</span>, <span class='st'>"Jan22"</span><span class='op'>)</span><span class='op'>)</span></span>
+<span></span>
+<span><span class='va'>d2</span> <span class='op'>|&gt;</span></span>
+<span>  <span class='fu'><a href='https://ggplot2.tidyverse.org/reference/ggplot.html'>ggplot</a></span><span class='op'>(</span>mapping <span class='op'>=</span> <span class='fu'><a href='https://ggplot2.tidyverse.org/reference/aes.html'>aes</a></span><span class='op'>(</span>x <span class='op'>=</span> <span class='fu'><a href='https://rdrr.io/r/base/factor.html'>factor</a></span><span class='op'>(</span><span class='va'>date</span><span class='op'>)</span>, y <span class='op'>=</span> <span class='va'>prop</span>, group <span class='op'>=</span> <span class='va'>political_ideology</span>, color <span class='op'>=</span> <span class='va'>political_ideology</span><span class='op'>)</span><span class='op'>)</span> <span class='op'>+</span> </span>
+<span>  <span class='fu'><a href='https://ggplot2.tidyverse.org/reference/geom_path.html'>geom_line</a></span><span class='op'>(</span><span class='op'>)</span> <span class='op'>+</span></span>
+<span>  <span class='fu'><a href='https://ggplot2.tidyverse.org/reference/geom_point.html'>geom_point</a></span><span class='op'>(</span><span class='op'>)</span> <span class='op'>+</span></span>
+<span>  <span class='fu'><a href='https://ggplot2.tidyverse.org/reference/scale_manual.html'>scale_color_manual</a></span><span class='op'>(</span>name <span class='op'>=</span> <span class='st'>"Political Ideology"</span>, values <span class='op'>=</span> <span class='fu'><a href='https://rdrr.io/r/base/c.html'>c</a></span><span class='op'>(</span>Liberal <span class='op'>=</span> <span class='st'>"steelblue1"</span>, Conservative <span class='op'>=</span> <span class='st'>"indianred1"</span>, Moderate <span class='op'>=</span> <span class='st'>"gold2"</span><span class='op'>)</span><span class='op'>)</span> <span class='op'>+</span></span>
+<span>  <span class='fu'><a href='https://ggplot2.tidyverse.org/reference/labs.html'>labs</a></span><span class='op'>(</span></span>
+<span>    title <span class='op'>=</span> <span class='st'>"Unfavorable Public Opinion on the Supreme Court by Political Ideology"</span>, </span>
+<span>    x <span class='op'>=</span> <span class='st'>"Date (Month &amp; Year)"</span>, </span>
+<span>    y <span class='op'>=</span> <span class='st'>"Proportion of Respondents"</span><span class='op'>)</span></span></code></pre>
+</div>
+<p><img src="index_files/figure-html5/unnamed-chunk-8-1.png" width="624" /></p>
 </div>
 <div class="sourceCode" id="cb1"><pre class="sourceCode r distill-force-highlighting-css"><code class="sourceCode r"></code></pre></div>
 <!--radix_placeholder_article_footer-->
